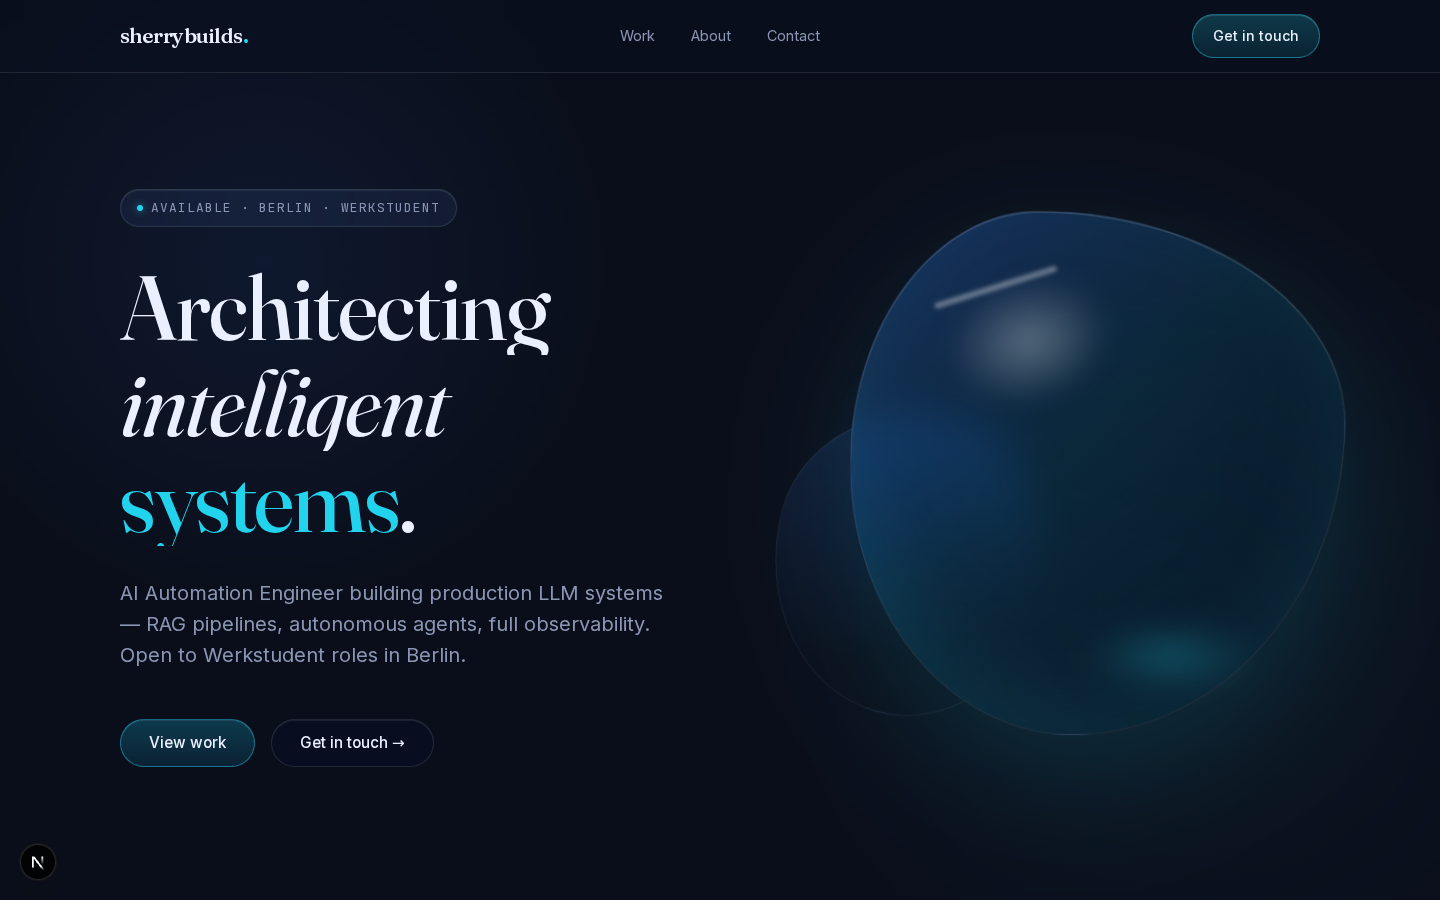
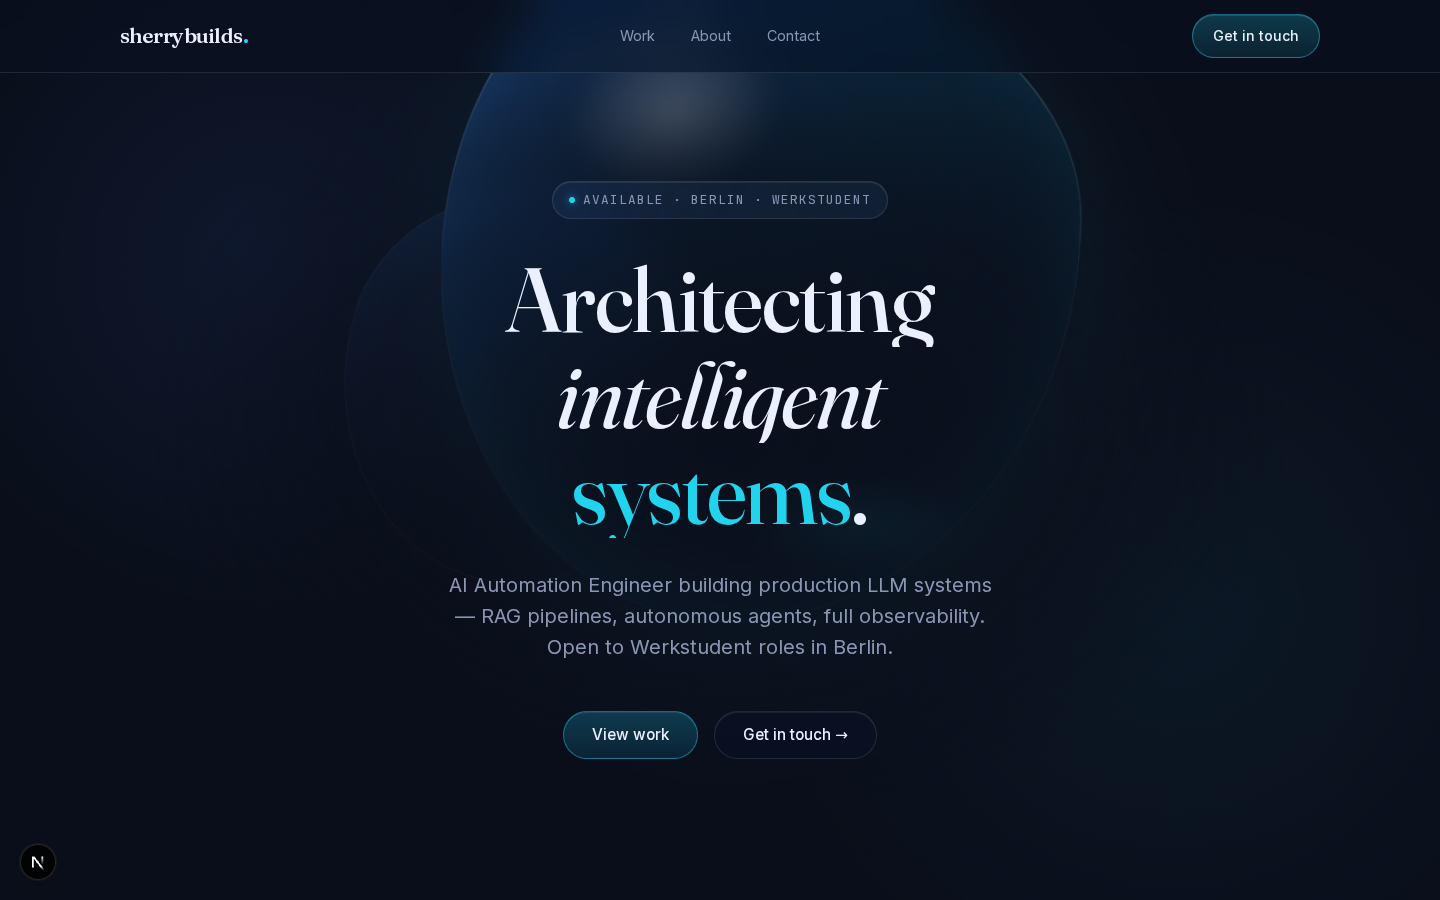
refactor(portfolio-dark): centered hero — text floats over glass object
- Chip, 3-line headline, sub and CTAs now horizontally centered and
  stacked (text-align center), slightly above vertical middle
- Glass object centered BEHIND the text and pushed upward so its
  bright specular mass halos the top of the headline (not an orb
  under the words); slow float + scroll parallax unchanged
- Soft radial dark scrim (bg → transparent) behind the text block
  keeps every word crisp over the object — verified legible at 1440
  and 375
- 375px: object scales to 150vw behind the text, CTAs stack vertically
  with 44px targets, no overflow

Verified: captures in screenshots/00-dark-hero-*, 0 console errors,
0 horizontal overflow, tsc + eslint clean.

diff --git a/src/components/portfolio-dark/DarkHero.tsx b/src/components/portfolio-dark/DarkHero.tsx
@@ -44,20 +44,31 @@ export default function DarkHero() {
       ref={scope}
       className="relative flex min-h-[100svh] items-center overflow-hidden"
     >
-      {/* 3D shape slot — right zone on desktop, quiet backdrop on mobile */}
+      {/* 3D shape slot — centered BEHIND the text, pushed upward so its
+          bright mass halos the top of the headline */}
       <div
-        className="hero-object pointer-events-none absolute inset-x-0 top-[8%] mx-auto h-[45%] w-[86%] opacity-40 lg:inset-auto lg:right-[4%] lg:top-1/2 lg:h-[72%] lg:w-[44%] lg:-translate-y-1/2 lg:opacity-100"
+        className="hero-object pointer-events-none absolute left-1/2 -top-[4%] aspect-square w-[150vw] max-w-none -translate-x-1/2 opacity-70 md:-top-[18%] md:w-[min(74vw,820px)] md:opacity-100"
         data-reveal=""
       >
         <GlassShape />
       </div>
 
       <div className="relative z-10 mx-auto w-full max-w-[80rem] px-6 lg:px-10">
-        <div className="grid grid-cols-12">
+        <div className="relative mx-auto flex max-w-[52rem] flex-col items-center text-center">
+          {/* readability scrim — soft radial dark pool behind the text block */}
           <div
-            className="col-span-12 lg:col-span-7"
+            aria-hidden="true"
+            className="absolute -z-10"
             style={{
-              paddingTop: "calc(var(--nav-height) + var(--space-12))",
+              inset: "-18% -30%",
+              background:
+                "radial-gradient(ellipse 60% 55% at 50% 48%, rgba(10, 14, 26, 0.9) 0%, rgba(10, 14, 26, 0.6) 45%, transparent 72%)",
+            }}
+          />
+          <div
+            className="flex flex-col items-center"
+            style={{
+              paddingTop: "calc(var(--nav-height) + var(--space-8))",
               paddingBottom: "var(--space-16)",
             }}
           >
@@ -119,7 +130,7 @@ export default function DarkHero() {
 
             {/* Sub */}
             <p
-              className="hero-sub mt-[var(--space-8)] max-w-[46ch]"
+              className="hero-sub mx-auto mt-[var(--space-8)] max-w-[46ch]"
               data-reveal=""
               style={{ fontSize: "var(--step-1)", color: "var(--muted)", lineHeight: 1.55 }}
             >
@@ -130,7 +141,7 @@ export default function DarkHero() {
 
             {/* CTAs — cyan glass primary, glass-outline secondary */}
             <div
-              className="hero-ctas mt-[var(--space-12)] flex flex-wrap items-center gap-[var(--space-4)]"
+              className="hero-ctas mt-[var(--space-12)] flex w-full flex-col items-center justify-center gap-[var(--space-4)] sm:w-auto sm:flex-row"
               data-reveal=""
             >
               <a
